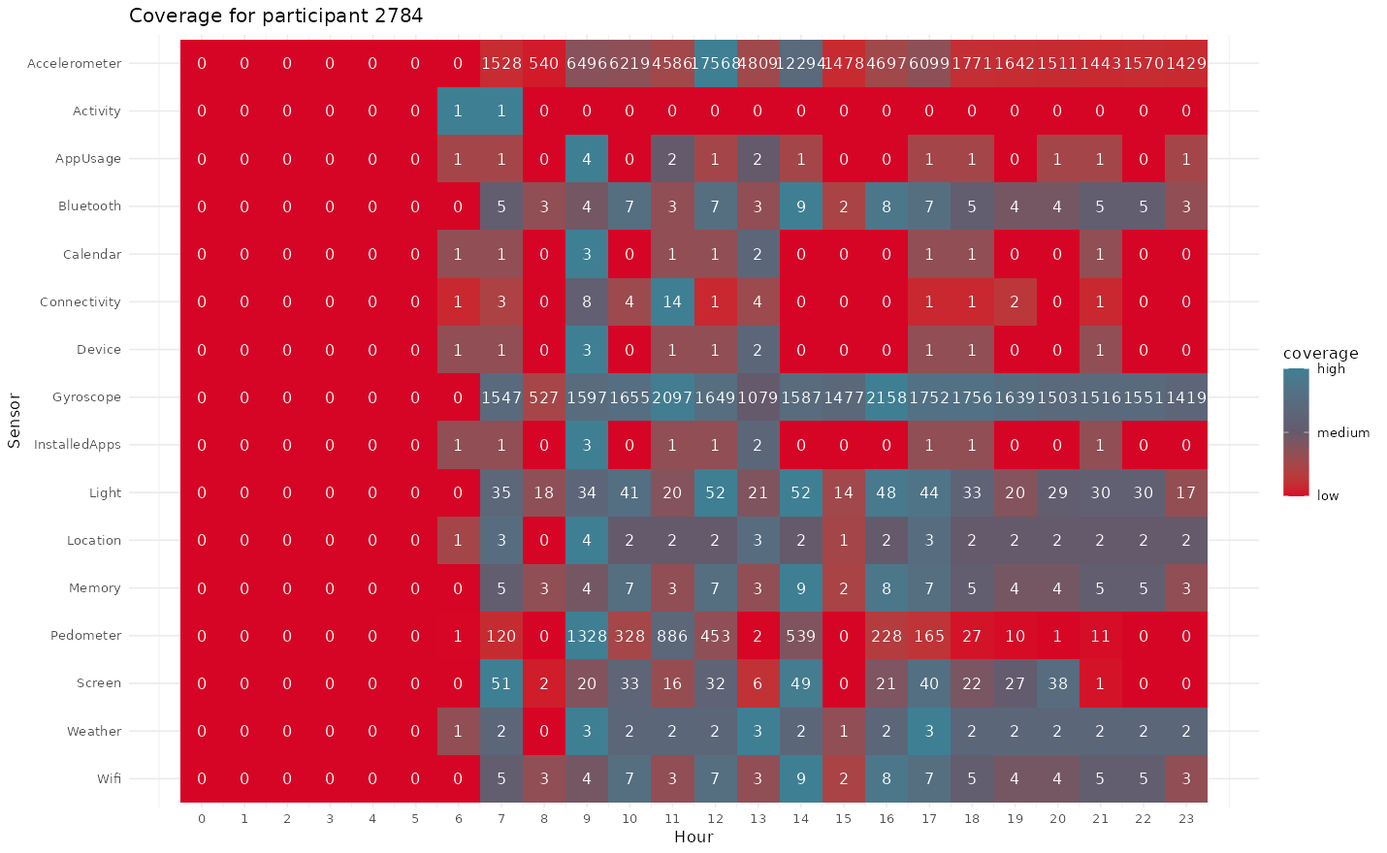
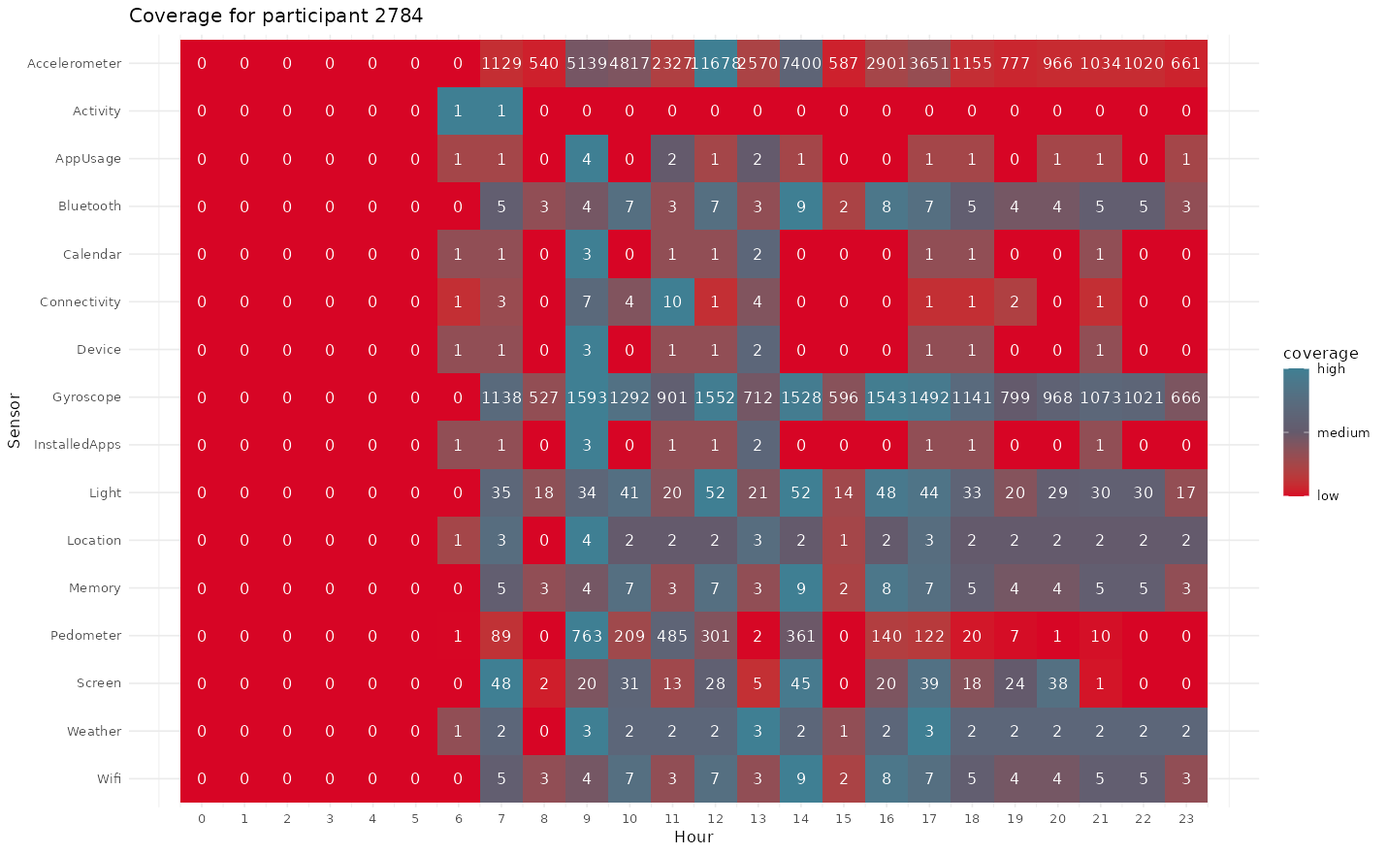
Deploying to gh-pages from @ koenniem/mpathsenser@890eeb71f720573059a42c735f161f8a804015d0 🚀

diff --git a/articles/mpathsenser.html b/articles/mpathsenser.html
@@ -171,18 +171,18 @@ fixing.</p>
 <span><span class="va">to_fix</span> <span class="op">&lt;-</span> <span class="fu"><a href="../reference/test_jsons.html">test_jsons</a></span><span class="op">(</span><span class="va">tempdir</span><span class="op">)</span></span>
 <span><span class="co">#&gt; Warning: There were issues in some files</span></span>
 <span><span class="fu"><a href="https://rdrr.io/r/base/print.html" class="external-link">print</a></span><span class="op">(</span><span class="va">to_fix</span><span class="op">)</span></span>
-<span><span class="co">#&gt;  [1] "/tmp/RtmpKenGT9/vignette/1_example_carp-data-2022-06-14-09-18-41-055229Z.json"</span></span>
-<span><span class="co">#&gt;  [2] "/tmp/RtmpKenGT9/vignette/1_example_carp-data-2022-06-14-09-38-53-504884Z.json"</span></span>
-<span><span class="co">#&gt;  [3] "/tmp/RtmpKenGT9/vignette/1_example_carp-data-2022-06-14-09-55-14-202021Z.json"</span></span>
-<span><span class="co">#&gt;  [4] "/tmp/RtmpKenGT9/vignette/1_example_carp-data-2022-06-14-11-48-39-822128Z.json"</span></span>
-<span><span class="co">#&gt;  [5] "/tmp/RtmpKenGT9/vignette/1_example_carp-data-2022-06-14-12-46-41-739139Z.json"</span></span>
-<span><span class="co">#&gt;  [6] "/tmp/RtmpKenGT9/vignette/1_example_carp-data-2022-06-14-12-51-10-826674Z.json"</span></span>
-<span><span class="co">#&gt;  [7] "/tmp/RtmpKenGT9/vignette/1_example_carp-data-2022-06-14-13-24-42-818906Z.json"</span></span>
-<span><span class="co">#&gt;  [8] "/tmp/RtmpKenGT9/vignette/1_example_carp-data-2022-06-14-17-47-29-568210Z.json"</span></span>
-<span><span class="co">#&gt;  [9] "/tmp/RtmpKenGT9/vignette/1_example_carp-data-2022-06-14-20-35-31-622759Z.json"</span></span>
-<span><span class="co">#&gt; [10] "/tmp/RtmpKenGT9/vignette/1_example_carp-data-2022-06-14-23-47-14-992568Z.json"</span></span>
-<span><span class="co">#&gt; [11] "/tmp/RtmpKenGT9/vignette/1_example_carp-data-2022-06-15-06-59-54-808885Z.json"</span></span>
-<span><span class="co">#&gt; [12] "/tmp/RtmpKenGT9/vignette/1_example_carp-data-2022-06-15-08-03-14-431352Z.json"</span></span>
+<span><span class="co">#&gt;  [1] "/tmp/RtmptlqU5s/vignette/1_example_carp-data-2022-06-14-09-18-41-055229Z.json"</span></span>
+<span><span class="co">#&gt;  [2] "/tmp/RtmptlqU5s/vignette/1_example_carp-data-2022-06-14-09-38-53-504884Z.json"</span></span>
+<span><span class="co">#&gt;  [3] "/tmp/RtmptlqU5s/vignette/1_example_carp-data-2022-06-14-09-55-14-202021Z.json"</span></span>
+<span><span class="co">#&gt;  [4] "/tmp/RtmptlqU5s/vignette/1_example_carp-data-2022-06-14-11-48-39-822128Z.json"</span></span>
+<span><span class="co">#&gt;  [5] "/tmp/RtmptlqU5s/vignette/1_example_carp-data-2022-06-14-12-46-41-739139Z.json"</span></span>
+<span><span class="co">#&gt;  [6] "/tmp/RtmptlqU5s/vignette/1_example_carp-data-2022-06-14-12-51-10-826674Z.json"</span></span>
+<span><span class="co">#&gt;  [7] "/tmp/RtmptlqU5s/vignette/1_example_carp-data-2022-06-14-13-24-42-818906Z.json"</span></span>
+<span><span class="co">#&gt;  [8] "/tmp/RtmptlqU5s/vignette/1_example_carp-data-2022-06-14-17-47-29-568210Z.json"</span></span>
+<span><span class="co">#&gt;  [9] "/tmp/RtmptlqU5s/vignette/1_example_carp-data-2022-06-14-20-35-31-622759Z.json"</span></span>
+<span><span class="co">#&gt; [10] "/tmp/RtmptlqU5s/vignette/1_example_carp-data-2022-06-14-23-47-14-992568Z.json"</span></span>
+<span><span class="co">#&gt; [11] "/tmp/RtmptlqU5s/vignette/1_example_carp-data-2022-06-15-06-59-54-808885Z.json"</span></span>
+<span><span class="co">#&gt; [12] "/tmp/RtmptlqU5s/vignette/1_example_carp-data-2022-06-15-08-03-14-431352Z.json"</span></span>
 <span></span>
 <span><span class="fu"><a href="../reference/fix_jsons.html">fix_jsons</a></span><span class="op">(</span>path <span class="op">=</span> <span class="cn">NULL</span>, <span class="va">to_fix</span><span class="op">)</span></span>
 <span><span class="co">#&gt; Fixed 12 files</span></span></code></pre></div>
@@ -218,6 +218,11 @@ to be processed.</p>
 <span>  batch_size <span class="op">=</span> <span class="fl">12</span>,</span>
 <span>  recursive <span class="op">=</span> <span class="cn">TRUE</span></span>
 <span><span class="op">)</span></span>
+<span><span class="co">#&gt; Importing data... <span style="color: #00BB00;">■                               </span> 0/4 batches [  0%] |</span></span>
+<span><span class="co">#&gt; Importing data... <span style="color: #00BB00;">■■■■■■■■■                       </span> 1/4 batches [ 25%] | ETA: 12s</span></span>
+<span><span class="co">#&gt; Importing data... <span style="color: #00BB00;">■■■■■■■■■■■■■■■■                </span> 2/4 batches [ 50%] | ETA: 14s</span></span>
+<span><span class="co">#&gt; Importing data... <span style="color: #00BB00;">■■■■■■■■■■■■■■■■■■■■■■■         </span> 3/4 batches [ 75%] | ETA:  8s</span></span>
+<span><span class="co">#&gt; Importing data... <span style="color: #00BB00;">■■■■■■■■■■■■■■■■■■■■■■■■■■■■■■■ </span> 4/4 batches [100%] | ETA:  0s</span></span>
 <span><span class="co">#&gt; All files were successfully written to the database.</span></span></code></pre></div>
 </div>
 <div class="section level2">
@@ -258,9 +263,9 @@ general.</p>
 <span><span class="co">#&gt; <span style="color: #BCBCBC;"> 5</span>     4 Accelerometer        0</span></span>
 <span><span class="co">#&gt; <span style="color: #BCBCBC;"> 6</span>     5 Accelerometer        0</span></span>
 <span><span class="co">#&gt; <span style="color: #BCBCBC;"> 7</span>     6 Accelerometer        0</span></span>
-<span><span class="co">#&gt; <span style="color: #BCBCBC;"> 8</span>     7 Accelerometer     <span style="text-decoration: underline;">1</span>528</span></span>
+<span><span class="co">#&gt; <span style="color: #BCBCBC;"> 8</span>     7 Accelerometer     <span style="text-decoration: underline;">1</span>129</span></span>
 <span><span class="co">#&gt; <span style="color: #BCBCBC;"> 9</span>     8 Accelerometer      540</span></span>
-<span><span class="co">#&gt; <span style="color: #BCBCBC;">10</span>     9 Accelerometer     <span style="text-decoration: underline;">6</span>496</span></span>
+<span><span class="co">#&gt; <span style="color: #BCBCBC;">10</span>     9 Accelerometer     <span style="text-decoration: underline;">5</span>139</span></span>
 <span><span class="co">#&gt; <span style="color: #949494;"># ℹ 374 more rows</span></span></span></code></pre></div>
 <p>Additionally, we can print the coverage data using the
 <code><a href="https://rdrr.io/r/graphics/plot.default.html" class="external-link">plot()</a></code> function.</p>

diff --git a/reference/index_db.html b/reference/index_db.html
@@ -2,10 +2,10 @@
 <!-- Generated by pkgdown: do not edit by hand --><html lang="en"><head><meta http-equiv="Content-Type" content="text/html; charset=UTF-8"><meta charset="utf-8"><meta http-equiv="X-UA-Compatible" content="IE=edge"><meta name="viewport" content="width=device-width, initial-scale=1, shrink-to-fit=no"><title>Create indexes for an mpathsenser database — index_db • mpathsenser</title><!-- favicons --><link rel="icon" type="image/png" sizes="96x96" href="../favicon-96x96.png"><link rel="icon" type="”image/svg+xml”" href="../favicon.svg"><link rel="apple-touch-icon" sizes="180x180" href="../apple-touch-icon.png"><link rel="icon" sizes="any" href="../favicon.ico"><link rel="manifest" href="../site.webmanifest"><script src="../lightswitch.js"></script><script src="../deps/jquery-3.6.0/jquery-3.6.0.min.js"></script><meta name="viewport" content="width=device-width, initial-scale=1, shrink-to-fit=no"><link href="../deps/bootstrap-5.3.1/bootstrap.min.css" rel="stylesheet"><script src="../deps/bootstrap-5.3.1/bootstrap.bundle.min.js"></script><link href="../deps/font-awesome-6.5.2/css/all.min.css" rel="stylesheet"><link href="../deps/font-awesome-6.5.2/css/v4-shims.min.css" rel="stylesheet"><script src="../deps/headroom-0.11.0/headroom.min.js"></script><script src="../deps/headroom-0.11.0/jQuery.headroom.min.js"></script><script src="../deps/bootstrap-toc-1.0.1/bootstrap-toc.min.js"></script><script src="../deps/clipboard.js-2.0.11/clipboard.min.js"></script><script src="../deps/search-1.0.0/autocomplete.jquery.min.js"></script><script src="../deps/search-1.0.0/fuse.min.js"></script><script src="../deps/search-1.0.0/mark.min.js"></script><!-- pkgdown --><script src="../pkgdown.js"></script><link href="../extra.css" rel="stylesheet"><meta property="og:title" content="Create indexes for an mpathsenser database — index_db"><meta name="description" content="
 Create indexes for an mpathsenser database on the participant_id, date, and a combination
 of these variable for all the tables in the database. This will speed up queries that use these
-variables in the WHERE clause."><meta property="og:description" content="
+variables in the WHERE clause. Because"><meta property="og:description" content="
 Create indexes for an mpathsenser database on the participant_id, date, and a combination
 of these variable for all the tables in the database. This will speed up queries that use these
-variables in the WHERE clause."><meta property="og:image" content="https://koenniem.github.io/mpathsenser/logo.png"><meta name="robots" content="noindex"></head><body>
+variables in the WHERE clause. Because"><meta property="og:image" content="https://koenniem.github.io/mpathsenser/logo.png"><meta name="robots" content="noindex"></head><body>
     <a href="#main" class="visually-hidden-focusable">Skip to contents</a>
 
 
@@ -51,10 +51,10 @@ variables in the WHERE clause."><meta property="og:image" content="https://koenn
     </div>
 
     <div class="ref-description section level2">
-    <p><a href="https://lifecycle.r-lib.org/articles/stages.html#stable" class="external-link"><img src="figures/lifecycle-stable.svg" alt="[Stable]"></a></p>
+    <p><a href="https://lifecycle.r-lib.org/articles/stages.html#deprecated" class="external-link"><img src="figures/lifecycle-deprecated.svg" alt="[Deprecated]"></a></p>
 <p>Create indexes for an mpathsenser database on the <code>participant_id</code>, <code>date</code>, and a combination
 of these variable for all the tables in the database. This will speed up queries that use these
-variables in the <code>WHERE</code> clause.</p>
+variables in the <code>WHERE</code> clause. Because</p>
     </div>
 
     <div class="section level2">
@@ -73,6 +73,13 @@ variables in the <code>WHERE</code> clause.</p>
     <div class="section level2">
     <h2 id="value">Value<a class="anchor" aria-label="anchor" href="#value"></a></h2>
     <p>Returns <code>TRUE</code> invisibly, called for side effects.</p>
+    </div>
+    <div class="section level2">
+    <h2 id="deprecation">Deprecation<a class="anchor" aria-label="anchor" href="#deprecation"></a></h2>
+
+
+<p>Because <code>participant_id</code>, <code>date</code>, and <code>time</code> are now primary keys in the database, indexes are
+no longer needed.</p>
     </div>
 
     <div class="section level2">

diff --git a/reference/sensors.html b/reference/sensors.html
@@ -61,7 +61,7 @@ created so it is easier to use in your own functions, e.g. to loop over sensors.
 
     <div class="section level2">
     <h2 id="format">Format<a class="anchor" aria-label="anchor" href="#format"></a></h2>
-    <p>An object of class <code>character</code> of length 27.</p>
+    <p>An object of class <code>character</code> of length 41.</p>
     </div>
     <div class="section level2">
     <h2 id="value">Value<a class="anchor" aria-label="anchor" href="#value"></a></h2>
@@ -71,13 +71,20 @@ created so it is easier to use in your own functions, e.g. to loop over sensors.
     <div class="section level2">
     <h2 id="ref-examples">Examples<a class="anchor" aria-label="anchor" href="#ref-examples"></a></h2>
     <div class="sourceCode"><pre class="sourceCode r"><code><span class="r-in"><span><span class="va">sensors</span></span></span>
-<span class="r-out co"><span class="r-pr">#&gt;</span>  [1] "Accelerometer" "Activity"      "AirQuality"    "AppUsage"     </span>
-<span class="r-out co"><span class="r-pr">#&gt;</span>  [5] "Battery"       "Bluetooth"     "Calendar"      "Connectivity" </span>
-<span class="r-out co"><span class="r-pr">#&gt;</span>  [9] "Device"        "Error"         "Geofence"      "Gyroscope"    </span>
-<span class="r-out co"><span class="r-pr">#&gt;</span> [13] "Heartbeat"     "InstalledApps" "Keyboard"      "Light"        </span>
-<span class="r-out co"><span class="r-pr">#&gt;</span> [17] "Location"      "Memory"        "Mobility"      "Noise"        </span>
-<span class="r-out co"><span class="r-pr">#&gt;</span> [21] "Pedometer"     "PhoneLog"      "Screen"        "TextMessage"  </span>
-<span class="r-out co"><span class="r-pr">#&gt;</span> [25] "Timezone"      "Weather"       "Wifi"         </span>
+<span class="r-out co"><span class="r-pr">#&gt;</span>  [1] "Accelerometer"         "Activity"              "AirQuality"           </span>
+<span class="r-out co"><span class="r-pr">#&gt;</span>  [4] "AppUsage"              "Battery"               "Bluetooth"            </span>
+<span class="r-out co"><span class="r-pr">#&gt;</span>  [7] "Calendar"              "Connectivity"          "Device"               </span>
+<span class="r-out co"><span class="r-pr">#&gt;</span> [10] "Error"                 "GarminAccelerometer"   "GarminActigraphy"     </span>
+<span class="r-out co"><span class="r-pr">#&gt;</span> [13] "GarminBBI"             "GarminEnhancedBBI"     "GarminGyroscope"      </span>
+<span class="r-out co"><span class="r-pr">#&gt;</span> [16] "GarminHeartRate"       "GarminMeta"            "GarminRespiration"    </span>
+<span class="r-out co"><span class="r-pr">#&gt;</span> [19] "GarminSkinTemperature" "GarminSPO2"            "GarminSteps"          </span>
+<span class="r-out co"><span class="r-pr">#&gt;</span> [22] "GarminStress"          "GarminWristStatus"     "GarminZeroCrossing"   </span>
+<span class="r-out co"><span class="r-pr">#&gt;</span> [25] "Geofence"              "Gyroscope"             "Heartbeat"            </span>
+<span class="r-out co"><span class="r-pr">#&gt;</span> [28] "InstalledApps"         "Keyboard"              "Light"                </span>
+<span class="r-out co"><span class="r-pr">#&gt;</span> [31] "Location"              "Memory"                "Mobility"             </span>
+<span class="r-out co"><span class="r-pr">#&gt;</span> [34] "Noise"                 "Pedometer"             "PhoneLog"             </span>
+<span class="r-out co"><span class="r-pr">#&gt;</span> [37] "Screen"                "TextMessage"           "Timezone"             </span>
+<span class="r-out co"><span class="r-pr">#&gt;</span> [40] "Weather"               "Wifi"                 </span>
 </code></pre></div>
     </div>
   </main><aside class="col-md-3"><nav id="toc" aria-label="Table of contents"><h2>On this page</h2>

diff --git a/reference/test_jsons.html b/reference/test_jsons.html
@@ -50,7 +50,13 @@
 
     <div class="section level2">
     <h2 id="ref-usage">Usage<a class="anchor" aria-label="anchor" href="#ref-usage"></a></h2>
-    <div class="sourceCode"><pre class="sourceCode r"><code><span><span class="fu">test_jsons</span><span class="op">(</span>path <span class="op">=</span> <span class="fu"><a href="https://rdrr.io/r/base/getwd.html" class="external-link">getwd</a></span><span class="op">(</span><span class="op">)</span>, files <span class="op">=</span> <span class="cn">NULL</span>, db <span class="op">=</span> <span class="cn">NULL</span>, recursive <span class="op">=</span> <span class="cn">TRUE</span><span class="op">)</span></span></code></pre></div>
+    <div class="sourceCode"><pre class="sourceCode r"><code><span><span class="fu">test_jsons</span><span class="op">(</span></span>
+<span>  path <span class="op">=</span> <span class="fu"><a href="https://rdrr.io/r/base/getwd.html" class="external-link">getwd</a></span><span class="op">(</span><span class="op">)</span>,</span>
+<span>  files <span class="op">=</span> <span class="cn">NULL</span>,</span>
+<span>  db <span class="op">=</span> <span class="cn">NULL</span>,</span>
+<span>  recursive <span class="op">=</span> <span class="cn">TRUE</span>,</span>
+<span>  .progress <span class="op">=</span> <span class="cn">TRUE</span></span>
+<span><span class="op">)</span></span></code></pre></div>
     </div>
 
     <div class="section level2">
@@ -73,6 +79,10 @@ files are already in the database and check only those JSON files which are not.
 <dt id="arg-recursive">recursive<a class="anchor" aria-label="anchor" href="#arg-recursive"></a></dt>
 <dd><p>Should the listing recurse into directories?</p></dd>
 
+
+<dt id="arg--progress">.progress<a class="anchor" aria-label="anchor" href="#arg--progress"></a></dt>
+<dd><p>Whether to display a progress bar.</p></dd>
+
 </dl></div>
     <div class="section level2">
     <h2 id="value">Value<a class="anchor" aria-label="anchor" href="#value"></a></h2>
@@ -85,13 +95,6 @@ names that need to be fixed. If there were no issues, an invisible empty string 
 distribute it's computation load among multiple workers. To make use of this functionality, run
 <a href="https://rdrr.io/cran/future/man/plan.html" class="external-link"><code>future::plan("multisession")</code></a> before
 calling this function.</p>
-    </div>
-    <div class="section level2">
-    <h2 id="progress">Progress<a class="anchor" aria-label="anchor" href="#progress"></a></h2>
-    <p>You can be updated of the progress of this function by using the
-<span class="pkg">progressr</span> package. See <code>progressr</code>'s
-<a href="https://cran.r-project.org/package=progressr/vignettes/progressr-01-intro.html" class="external-link">vignette</a>
-on how to subscribe to these updates.</p>
     </div>
 
     <div class="section level2">

diff --git a/reference/unzip_data.html b/reference/unzip_data.html
@@ -56,7 +56,13 @@ function call.</p>
 
     <div class="section level2">
     <h2 id="ref-usage">Usage<a class="anchor" aria-label="anchor" href="#ref-usage"></a></h2>
-    <div class="sourceCode"><pre class="sourceCode r"><code><span><span class="fu">unzip_data</span><span class="op">(</span>path <span class="op">=</span> <span class="fu"><a href="https://rdrr.io/r/base/getwd.html" class="external-link">getwd</a></span><span class="op">(</span><span class="op">)</span>, to <span class="op">=</span> <span class="cn">NULL</span>, overwrite <span class="op">=</span> <span class="cn">FALSE</span>, recursive <span class="op">=</span> <span class="cn">TRUE</span><span class="op">)</span></span></code></pre></div>
+    <div class="sourceCode"><pre class="sourceCode r"><code><span><span class="fu">unzip_data</span><span class="op">(</span></span>
+<span>  path <span class="op">=</span> <span class="fu"><a href="https://rdrr.io/r/base/getwd.html" class="external-link">getwd</a></span><span class="op">(</span><span class="op">)</span>,</span>
+<span>  to <span class="op">=</span> <span class="cn">NULL</span>,</span>
+<span>  overwrite <span class="op">=</span> <span class="cn">FALSE</span>,</span>
+<span>  recursive <span class="op">=</span> <span class="cn">TRUE</span>,</span>
+<span>  .progress <span class="op">=</span> <span class="cn">TRUE</span></span>
+<span><span class="op">)</span></span></code></pre></div>
     </div>
 
     <div class="section level2">
@@ -79,6 +85,10 @@ function call.</p>
 <dd><p>Logical value indicating whether to unzip files in subdirectories as well. These
 files will then be unzipped in their respective subdirectory.</p></dd>
 
+
+<dt id="arg--progress">.progress<a class="anchor" aria-label="anchor" href="#arg--progress"></a></dt>
+<dd><p>Whether to display a progress bar.</p></dd>
+
 </dl></div>
     <div class="section level2">
     <h2 id="value">Value<a class="anchor" aria-label="anchor" href="#value"></a></h2>
@@ -90,13 +100,6 @@ files will then be unzipped in their respective subdirectory.</p></dd>
 distribute it's computation load among multiple workers. To make use of this functionality, run
 <a href="https://rdrr.io/cran/future/man/plan.html" class="external-link"><code>future::plan("multisession")</code></a> before
 calling this function.</p>
-    </div>
-    <div class="section level2">
-    <h2 id="progress">Progress<a class="anchor" aria-label="anchor" href="#progress"></a></h2>
-    <p>You can be updated of the progress of this function by using the
-<span class="pkg">progressr</span> package. See <code>progressr</code>'s
-<a href="https://cran.r-project.org/package=progressr/vignettes/progressr-01-intro.html" class="external-link">vignette</a>
-on how to subscribe to these updates.</p>
     </div>
 
     <div class="section level2">

diff --git a/reference/fix_jsons.html b/reference/fix_jsons.html
@@ -59,7 +59,7 @@ problems associated with improper file closure by m-Path Sense.</p>
 
     <div class="section level2">
     <h2 id="ref-usage">Usage<a class="anchor" aria-label="anchor" href="#ref-usage"></a></h2>
-    <div class="sourceCode"><pre class="sourceCode r"><code><span><span class="fu">fix_jsons</span><span class="op">(</span>path <span class="op">=</span> <span class="fu"><a href="https://rdrr.io/r/base/getwd.html" class="external-link">getwd</a></span><span class="op">(</span><span class="op">)</span>, files <span class="op">=</span> <span class="cn">NULL</span>, recursive <span class="op">=</span> <span class="cn">TRUE</span><span class="op">)</span></span></code></pre></div>
+    <div class="sourceCode"><pre class="sourceCode r"><code><span><span class="fu">fix_jsons</span><span class="op">(</span>path <span class="op">=</span> <span class="fu"><a href="https://rdrr.io/r/base/getwd.html" class="external-link">getwd</a></span><span class="op">(</span><span class="op">)</span>, files <span class="op">=</span> <span class="cn">NULL</span>, recursive <span class="op">=</span> <span class="cn">TRUE</span>, .progress <span class="op">=</span> <span class="cn">TRUE</span><span class="op">)</span></span></code></pre></div>
     </div>
 
     <div class="section level2">
@@ -76,6 +76,10 @@ problems associated with improper file closure by m-Path Sense.</p>
 
 <dt id="arg-recursive">recursive<a class="anchor" aria-label="anchor" href="#arg-recursive"></a></dt>
 <dd><p>Should the listing recurse into directories?</p></dd>
+
+
+<dt id="arg--progress">.progress<a class="anchor" aria-label="anchor" href="#arg--progress"></a></dt>
+<dd><p>Whether to display a progress bar.</p></dd>
 
 </dl></div>
     <div class="section level2">
@@ -107,13 +111,6 @@ hand.</p>
 distribute it's computation load among multiple workers. To make use of this functionality, run
 <a href="https://rdrr.io/cran/future/man/plan.html" class="external-link"><code>future::plan("multisession")</code></a> before
 calling this function.</p>
-    </div>
-    <div class="section level2">
-    <h2 id="progress">Progress<a class="anchor" aria-label="anchor" href="#progress"></a></h2>
-    <p>You can be updated of the progress of this function by using the
-<span class="pkg">progressr</span> package. See <code>progressr</code>'s
-<a href="https://cran.r-project.org/package=progressr/vignettes/progressr-01-intro.html" class="external-link">vignette</a>
-on how to subscribe to these updates.</p>
     </div>
 
     <div class="section level2">

diff --git a/reference/import.html b/reference/import.html
@@ -68,7 +68,9 @@ in this package use. It is recommend to first run <code><a href="test_jsons.html
 <span>  sensors <span class="op">=</span> <span class="cn">NULL</span>,</span>
 <span>  batch_size <span class="op">=</span> <span class="fl">24</span>,</span>
 <span>  backend <span class="op">=</span> <span class="st">"RSQLite"</span>,</span>
-<span>  recursive <span class="op">=</span> <span class="cn">TRUE</span></span>
+<span>  recursive <span class="op">=</span> <span class="cn">TRUE</span>,</span>
+<span>  .progress <span class="op">=</span> <span class="cn">TRUE</span>,</span>
+<span>  debug <span class="op">=</span> <span class="cn">FALSE</span></span>
 <span><span class="op">)</span></span></code></pre></div>
     </div>
 
@@ -99,6 +101,14 @@ NULL to extract all sensor data.</p></dd>
 
 <dt id="arg-recursive">recursive<a class="anchor" aria-label="anchor" href="#arg-recursive"></a></dt>
 <dd><p>Should the listing recurse into directories?</p></dd>
+
+
+<dt id="arg--progress">.progress<a class="anchor" aria-label="anchor" href="#arg--progress"></a></dt>
+<dd><p>Whether to display a progress bar.</p></dd>
+
+
+<dt id="arg-debug">debug<a class="anchor" aria-label="anchor" href="#arg-debug"></a></dt>
+<dd><p>Whether suppressed warnings and errors should be shown for debugging purposes.</p></dd>
 
 </dl></div>
     <div class="section level2">
@@ -131,13 +141,6 @@ in an inconsistent state.</p>
 distribute it's computation load among multiple workers. To make use of this functionality, run
 <a href="https://rdrr.io/cran/future/man/plan.html" class="external-link"><code>future::plan("multisession")</code></a> before
 calling this function.</p>
-    </div>
-    <div class="section level2">
-    <h2 id="progress">Progress<a class="anchor" aria-label="anchor" href="#progress"></a></h2>
-    <p>You can be updated of the progress of this function by using the
-<span class="pkg">progressr</span> package. See <code>progressr</code>'s
-<a href="https://cran.r-project.org/package=progressr/vignettes/progressr-01-intro.html" class="external-link">vignette</a>
-on how to subscribe to these updates.</p>
     </div>
     <div class="section level2">
     <h2 id="see-also">See also<a class="anchor" aria-label="anchor" href="#see-also"></a></h2>

diff --git a/reference/unpack_sensor_data.html b/reference/unpack_sensor_data.html
@@ -92,10 +92,8 @@ be used for other purposes.</p>
 <span class="r-in"><span><span class="op">)</span></span></span>
 <span class="r-in"><span><span class="fu"><a href="https://rdrr.io/r/base/class.html" class="external-link">class</a></span><span class="op">(</span><span class="va">x</span><span class="op">)</span> <span class="op">&lt;-</span> <span class="fu"><a href="https://rdrr.io/r/base/c.html" class="external-link">c</a></span><span class="op">(</span><span class="st">"activity"</span>, <span class="fu"><a href="https://rdrr.io/r/base/class.html" class="external-link">class</a></span><span class="op">(</span><span class="va">x</span><span class="op">)</span><span class="op">)</span></span></span>
 <span class="r-in"><span><span class="fu">mpathsenser</span><span class="fu">:::</span><span class="fu">unpack_sensor_data</span><span class="op">(</span><span class="va">x</span><span class="op">)</span></span></span>
-<span class="r-out co"><span class="r-pr">#&gt;</span>                         measurement_id participant_id       date         time</span>
-<span class="r-out co"><span class="r-pr">#&gt;</span> 1 3A0FFC2B-91A5-A05F-23BF-0535F7E0C5AE          12345 2021-11-14 16:40:00.123</span>
-<span class="r-out co"><span class="r-pr">#&gt;</span>   confidence    type</span>
-<span class="r-out co"><span class="r-pr">#&gt;</span> 1         80 WALKING</span>
+<span class="r-out co"><span class="r-pr">#&gt;</span>   measurement_id participant_id       date            time confidence    type</span>
+<span class="r-out co"><span class="r-pr">#&gt;</span> 1             NA          12345 2021-11-14 16:40:00.123456         80 WALKING</span>
 </code></pre></div>
     </div>
   </main><aside class="col-md-3"><nav id="toc" aria-label="Table of contents"><h2>On this page</h2>

diff --git a/reference/app_category.html b/reference/app_category.html
@@ -56,7 +56,7 @@ it selects the first result in the list and its corresponding category and packa
 
     <div class="section level2">
     <h2 id="ref-usage">Usage<a class="anchor" aria-label="anchor" href="#ref-usage"></a></h2>
-    <div class="sourceCode"><pre class="sourceCode r"><code><span><span class="fu">app_category</span><span class="op">(</span><span class="va">name</span>, num <span class="op">=</span> <span class="fl">1</span>, rate_limit <span class="op">=</span> <span class="fl">5</span>, exact <span class="op">=</span> <span class="cn">TRUE</span><span class="op">)</span></span></code></pre></div>
+    <div class="sourceCode"><pre class="sourceCode r"><code><span><span class="fu">app_category</span><span class="op">(</span><span class="va">name</span>, num <span class="op">=</span> <span class="fl">1</span>, rate_limit <span class="op">=</span> <span class="fl">5</span>, exact <span class="op">=</span> <span class="cn">TRUE</span>, .progress <span class="op">=</span> <span class="cn">TRUE</span><span class="op">)</span></span></code></pre></div>
     </div>
 
     <div class="section level2">
@@ -83,6 +83,10 @@ exactly equal to the last part of the selected package from the search results. 
 <code>exact</code> is <code>TRUE</code>, it interacts with <code>num</code> in the sense that it no longer selects
 the top search result but instead the top search result that matches the last part of the package
 name.</p></dd>
+
+
+<dt id="arg--progress">.progress<a class="anchor" aria-label="anchor" href="#arg--progress"></a></dt>
+<dd><p>Whether to display a progress bar.</p></dd>
 
 </dl></div>
     <div class="section level2">

diff --git a/reference/copy_db.html b/reference/copy_db.html
@@ -98,7 +98,7 @@ sensors.</p></dd>
 <span class="r-in"><span><span class="co"># Check that the second database has the same data as the first database</span></span></span>
 <span class="r-in"><span><span class="fu"><a href="get_data.html">get_data</a></span><span class="op">(</span><span class="va">db2</span>, <span class="st">"Activity"</span><span class="op">)</span></span></span>
 <span class="r-out co"><span class="r-pr">#&gt;</span> <span style="color: #949494;"># Source:   table&lt;`activity`&gt; [?? x 6]</span></span>
-<span class="r-out co"><span class="r-pr">#&gt;</span> <span style="color: #949494;"># Database: sqlite 3.51.0 [/tmp/RtmppBkbpy/mydb2.db]</span></span>
+<span class="r-out co"><span class="r-pr">#&gt;</span> <span style="color: #949494;"># Database: sqlite 3.51.1 [/tmp/Rtmp1G3IqX/mydb2.db]</span></span>
 <span class="r-out co"><span class="r-pr">#&gt;</span>   measurement_id participant_id date       time     confidence type   </span>
 <span class="r-out co"><span class="r-pr">#&gt;</span>   <span style="color: #949494; font-style: italic;">&lt;chr&gt;</span>          <span style="color: #949494; font-style: italic;">&lt;chr&gt;</span>          <span style="color: #949494; font-style: italic;">&lt;chr&gt;</span>      <span style="color: #949494; font-style: italic;">&lt;chr&gt;</span>         <span style="color: #949494; font-style: italic;">&lt;int&gt;</span> <span style="color: #949494; font-style: italic;">&lt;chr&gt;</span>  </span>
 <span class="r-out co"><span class="r-pr">#&gt;</span> <span style="color: #BCBCBC;">1</span> 123            1              2024-01-01 08:00:00        100 WALKING</span>

diff --git a/reference/get_nrows.html b/reference/get_nrows.html
@@ -52,7 +52,7 @@
     <h2 id="ref-usage">Usage<a class="anchor" aria-label="anchor" href="#ref-usage"></a></h2>
     <div class="sourceCode"><pre class="sourceCode r"><code><span><span class="fu">get_nrows</span><span class="op">(</span></span>
 <span>  <span class="va">db</span>,</span>
-<span>  sensor <span class="op">=</span> <span class="st">"All"</span>,</span>
+<span>  sensor <span class="op">=</span> <span class="cn">NULL</span>,</span>
 <span>  participant_id <span class="op">=</span> <span class="cn">NULL</span>,</span>
 <span>  start_date <span class="op">=</span> <span class="cn">NULL</span>,</span>
 <span>  end_date <span class="op">=</span> <span class="cn">NULL</span></span>
@@ -68,7 +68,7 @@
 
 
 <dt id="arg-sensor">sensor<a class="anchor" aria-label="anchor" href="#arg-sensor"></a></dt>
-<dd><p>A character vector of one or multiple vectors. Use <code>sensor = "All"</code> for all
+<dd><p>A character vector of one or multiple vectors. Use <code>sensor = NULL</code> for all
 sensors. See <a href="sensors.html">sensors</a> for a list of all available sensors.</p></dd>
 
 

diff --git a/reference/mpathsenser-package.html b/reference/mpathsenser-package.html
@@ -63,8 +63,7 @@ convenience functions to aid in data processing.</p>
 
     <div class="section level2">
     <h2 id="see-also">See also<a class="anchor" aria-label="anchor" href="#see-also"></a></h2>
-    <div class="dont-index"><p>Useful links:</p><ul><li><p><a href="https://github.com/koenniem/mpathsenser" class="external-link">https://github.com/koenniem/mpathsenser</a></p></li>
-<li><p><a href="https://ppw-okpiv.pages.gitlab.kuleuven.be/researchers/u0134047/mpathsenser" class="external-link">https://ppw-okpiv.pages.gitlab.kuleuven.be/researchers/u0134047/mpathsenser</a></p></li>
+    <div class="dont-index"><p>Useful links:</p><ul><li><p><a href="https://koenniem.github.io/mpathsenser/">https://koenniem.github.io/mpathsenser/</a></p></li>
 <li><p>Report bugs at <a href="https://github.com/koenniem/mpathsenser/issues" class="external-link">https://github.com/koenniem/mpathsenser/issues</a></p></li>
 </ul></div>
     </div>
